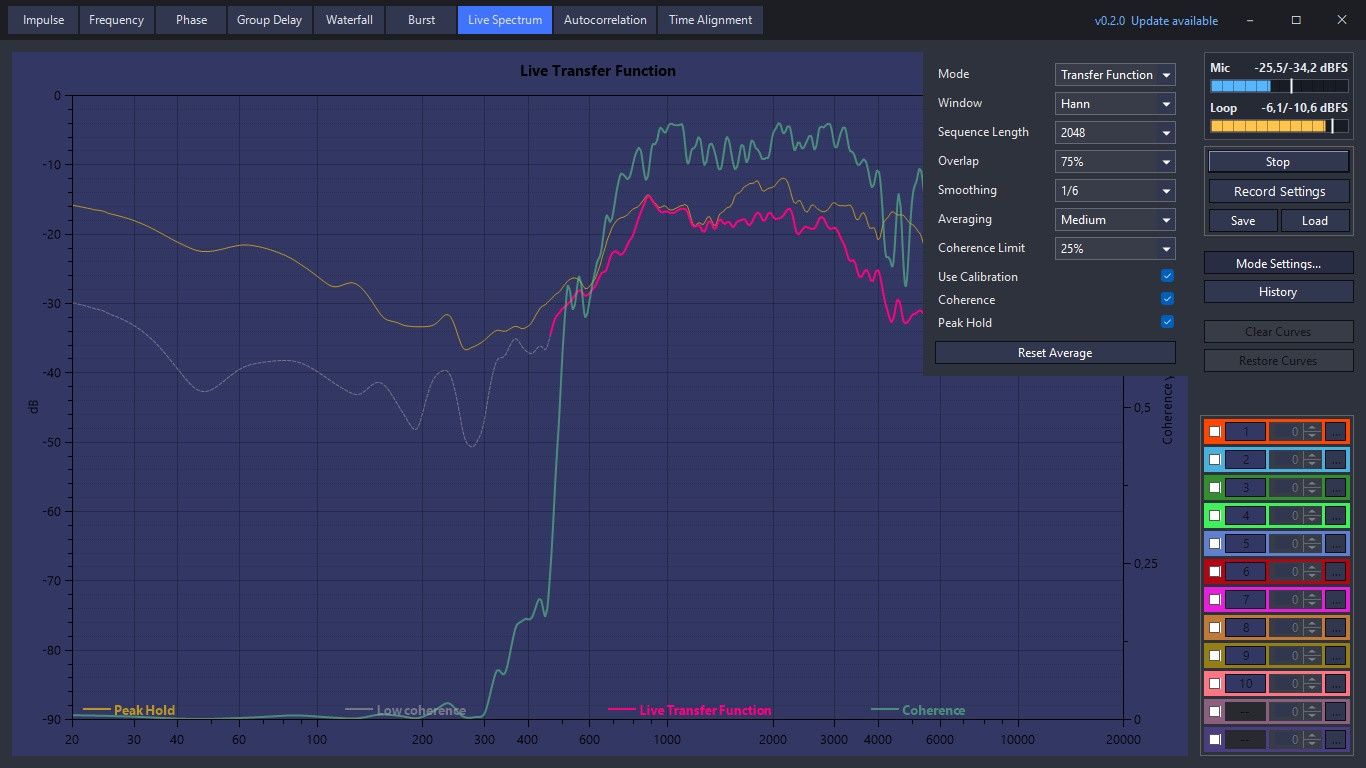
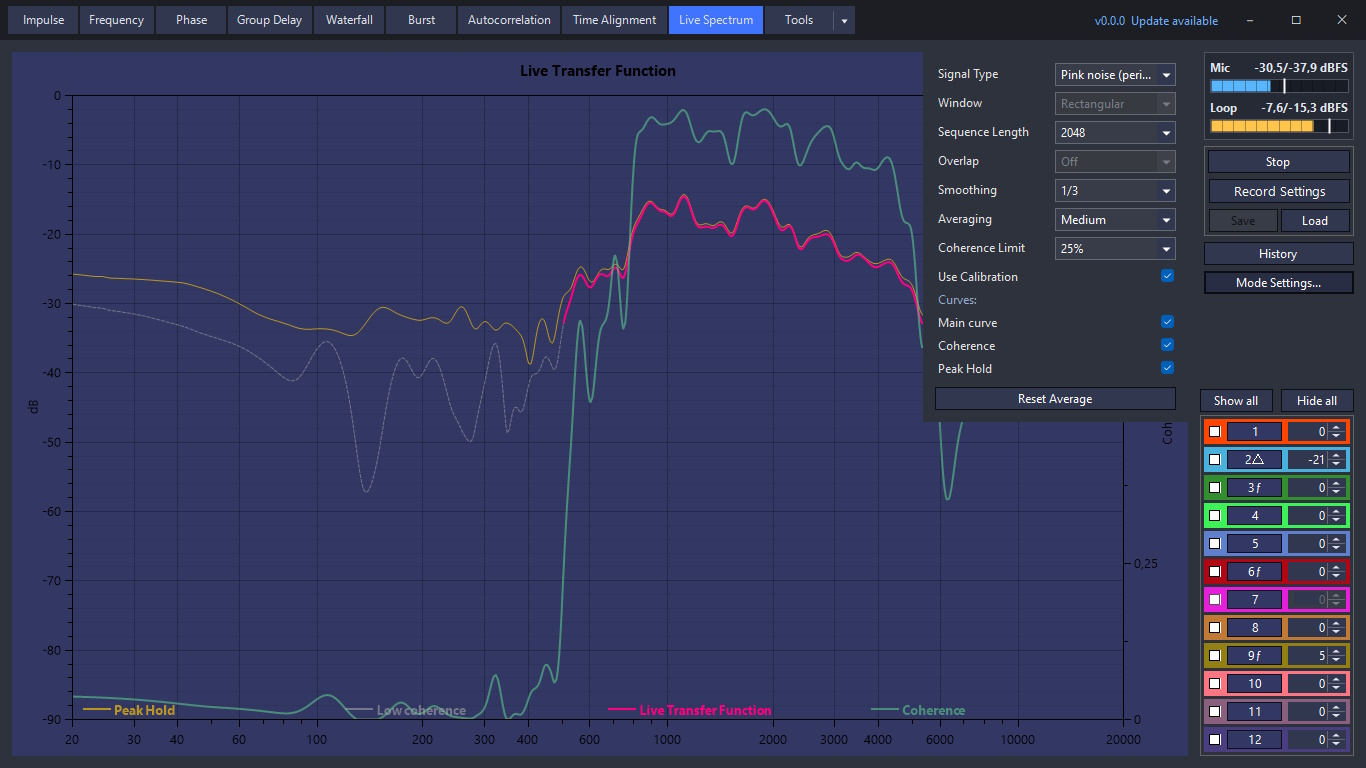
readme

diff --git a/README.md b/README.md
@@ -79,6 +79,9 @@ file is provided with every release.
 - EQ Wizard: design an up-to-32-band parametric EQ against a target, with Auto
   Tune, a live results read-out, cross-tool PEQ import/export, and a printable
   tuning-sheet PDF
+- Signal Generator: play pink (periodic and continuous), brown/red, white noise,
+  or a sine tone through the configured playback device for level setting and
+  channel checks
 - Measurement History with in-memory snapshots, saved-file recall, FR previews,
   per-entry working state (mode, settings, active overlays), and a one-click
   new-session reset
@@ -982,6 +985,32 @@ non-peaking filter types, and malformed entries are skipped rather than rejected
 car or speaker: the product banner, a title from the file name, the date and fit
 range, a small EQ preview graph with the fit window shaded, the tuning statistics,
 the preamp, and one large card per filter.
+
+## Signal Generator
+
+The **Signal Generator** (under the **Tools** tab) plays a continuous test signal
+through the current playback device, independent of any measurement. It is handy
+for setting output levels, checking channel routing and polarity, exercising a
+loudspeaker, or feeding an external analyzer.
+
+**Signal type** offers the same excitation options as Live Spectrum plus a tone:
+
+- **Pink noise (periodic)** — the default; one period of exactly pink noise
+  looped seamlessly.
+- **Pink noise** — continuous random pink noise, −3 dB/octave.
+- **Brown / red noise** — −6 dB/octave, weighted toward low frequencies.
+- **White noise** — flat energy per hertz.
+- **Sine** — a pure tone; the **Frequency, Hz** field is only enabled for this
+  type.
+
+**Duration, s** sets how long the signal plays, and **Level, %** scales its
+amplitude. **Play** starts playback and **Stop** ends it; a status line reports
+whether the generator is `Ready`, `Playing`, or shows any playback error.
+
+The generator reuses the audio configuration from **Record Settings** — backend
+(Wave or ASIO), sample rate, bit depth, playback channel, and output device or
+ASIO output channel pair — and displays the resolved settings so you can confirm
+where the signal is going before pressing **Play**.
 
 ## Calibration
 